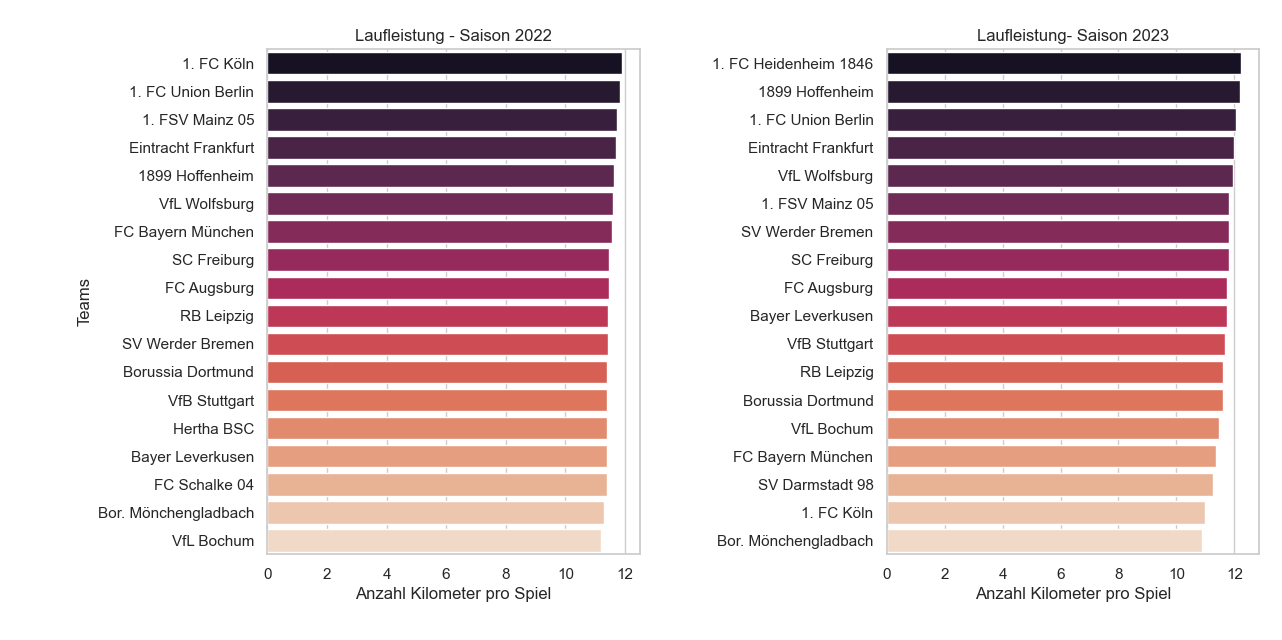
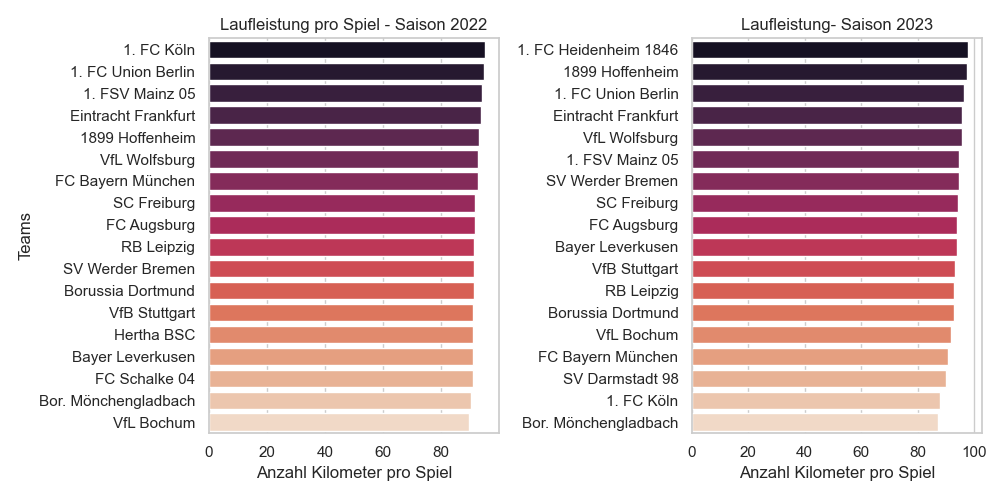
Updating diagram parameters

diff --git a/src/football_team_analysis/analysis/mileage_comp.py b/src/football_team_analysis/analysis/mileage_comp.py
@@ -14,7 +14,7 @@ data2 = load_data.load_data("data/preprocessed_data/2023")
 def mileage_compared(df1, df2, season1, season2):
     for df in [df1, df2]:
         if "km/perG" in df.columns:
-            df["km/perG"] = df["km/perG"] / 1000
+            df["km/perG"] = df["km/perG"] / 100
         else:
             print(f"There is no column called 'Km' in DataFrame {df}")
 
@@ -28,7 +28,7 @@ def mileage_compared(df1, df2, season1, season2):
     ax1.set_xlabel("Anzahl Kilometer pro Spiel")
     ax1.set_ylabel("Teams")
     ax1.set_xticklabels(ax1.get_xticklabels())
-    ax1.set_title(f"Laufleistung - Saison {season1}")
+    ax1.set_title(f"Laufleistung pro Spiel - Saison {season1}")
 
     # Highlight a specific team in the first plot
     # ax1.patches[0].set_facecolor("red")
